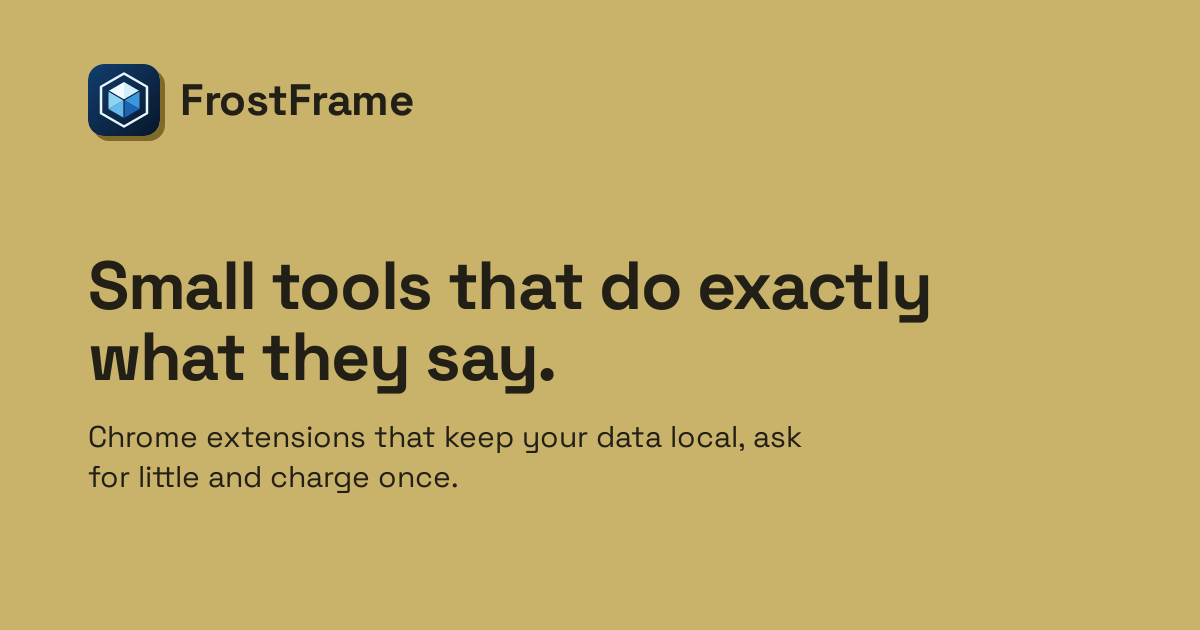
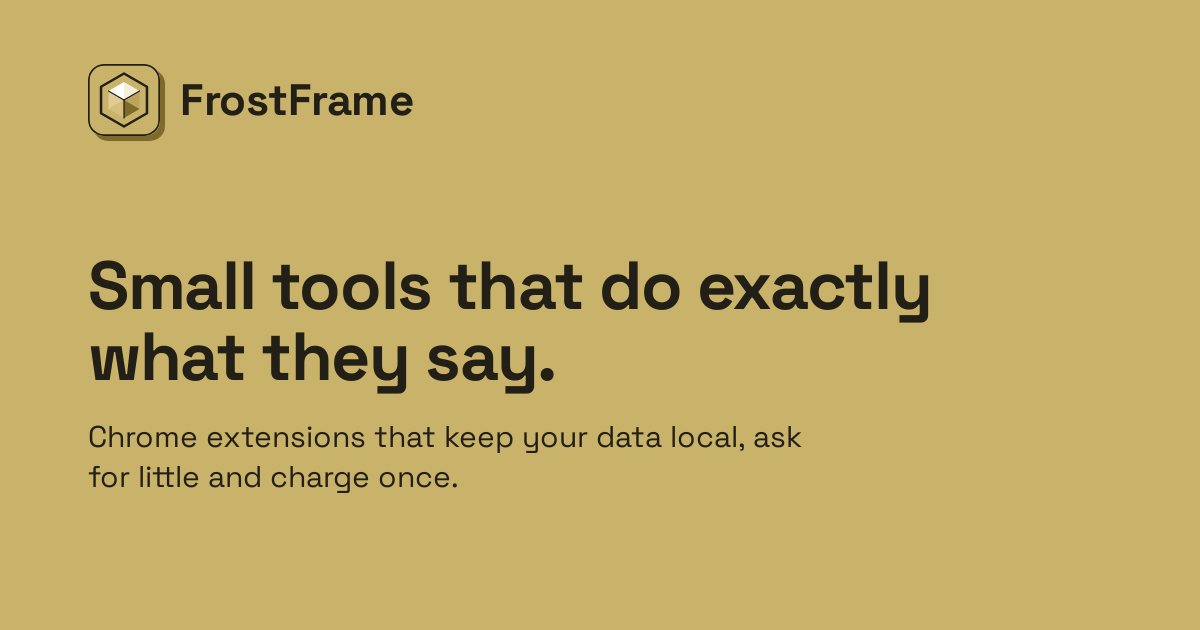
Zeichen in Gold: gleiche Form, Farben der Familie
Claude-Session: https://claude.ai/code/session_01BatjDtbuoVce3uDHUNqtjW

Changed region(s): [[0.0617, 0.0905, 0.1542, 0.2413]]

diff --git a/index.html b/index.html
@@ -15,7 +15,7 @@
   <meta property="og:image" content="https://frostframe.example/assets/og.png">
   <meta name="twitter:card" content="summary_large_image">
   <meta name="theme-color" content="#c9b26a">
-  <link rel="icon" href="assets/brand/frostframe-icon.svg" type="image/svg+xml">
+  <link rel="icon" href="assets/brand/frostframe-icon-gold.svg" type="image/svg+xml">
   <link rel="apple-touch-icon" href="assets/apple-touch-icon.png">
   <link rel="preload" href="assets/SpaceGrotesk.woff2" as="font" type="font/woff2" crossorigin>
   <link rel="stylesheet" href="assets/site.css">
@@ -24,7 +24,7 @@
 <a class="skip" href="#main">Skip to content</a>
 <header class="site-header">
   <div class="wrap">
-    <a class="brand" href="index.html"><img src="assets/brand/frostframe-icon.svg" alt="" width="30" height="30">FrostFrame</a>
+    <a class="brand" href="index.html"><img src="assets/brand/frostframe-icon-gold.svg" alt="" width="30" height="30">FrostFrame</a>
     <nav class="site-nav" aria-label="Main">
       <a href="index.html#extensions" class="keep">Extensions</a>
       <a href="index.html#pricing">Pricing</a>
@@ -203,7 +203,7 @@
 <footer class="site-footer">
   <div class="wrap">
     <div>
-      <a class="brand" href="index.html"><img src="assets/brand/frostframe-icon.svg" alt="" width="30" height="30">FrostFrame</a>
+      <a class="brand" href="index.html"><img src="assets/brand/frostframe-icon-gold.svg" alt="" width="30" height="30">FrostFrame</a>
       <p>Small, honest browser tools. Your data stays on your device.</p>
     </div>
     <nav aria-label="Extensions">

diff --git a/404.html b/404.html
@@ -15,7 +15,7 @@
   <meta property="og:image" content="https://frostframe.example/assets/og.png">
   <meta name="twitter:card" content="summary_large_image">
   <meta name="theme-color" content="#c9b26a">
-  <link rel="icon" href="assets/brand/frostframe-icon.svg" type="image/svg+xml">
+  <link rel="icon" href="assets/brand/frostframe-icon-gold.svg" type="image/svg+xml">
   <link rel="apple-touch-icon" href="assets/apple-touch-icon.png">
   <link rel="preload" href="assets/SpaceGrotesk.woff2" as="font" type="font/woff2" crossorigin>
   <link rel="stylesheet" href="assets/site.css">
@@ -24,7 +24,7 @@
 <a class="skip" href="#main">Skip to content</a>
 <header class="site-header">
   <div class="wrap">
-    <a class="brand" href="index.html"><img src="assets/brand/frostframe-icon.svg" alt="" width="30" height="30">FrostFrame</a>
+    <a class="brand" href="index.html"><img src="assets/brand/frostframe-icon-gold.svg" alt="" width="30" height="30">FrostFrame</a>
     <nav class="site-nav" aria-label="Main">
       <a href="index.html#extensions" class="keep">Extensions</a>
       <a href="index.html#pricing">Pricing</a>
@@ -44,7 +44,7 @@
 <footer class="site-footer">
   <div class="wrap">
     <div>
-      <a class="brand" href="index.html"><img src="assets/brand/frostframe-icon.svg" alt="" width="30" height="30">FrostFrame</a>
+      <a class="brand" href="index.html"><img src="assets/brand/frostframe-icon-gold.svg" alt="" width="30" height="30">FrostFrame</a>
       <p>Small, honest browser tools. Your data stays on your device.</p>
     </div>
     <nav aria-label="Extensions">

diff --git a/cookie-desk.html b/cookie-desk.html
@@ -15,7 +15,7 @@
   <meta property="og:image" content="https://frostframe.example/assets/og.png">
   <meta name="twitter:card" content="summary_large_image">
   <meta name="theme-color" content="#c9b26a">
-  <link rel="icon" href="assets/brand/frostframe-icon.svg" type="image/svg+xml">
+  <link rel="icon" href="assets/brand/frostframe-icon-gold.svg" type="image/svg+xml">
   <link rel="apple-touch-icon" href="assets/apple-touch-icon.png">
   <link rel="preload" href="assets/SpaceGrotesk.woff2" as="font" type="font/woff2" crossorigin>
   <link rel="stylesheet" href="assets/site.css">
@@ -24,7 +24,7 @@
 <a class="skip" href="#main">Skip to content</a>
 <header class="site-header">
   <div class="wrap">
-    <a class="brand" href="index.html"><img src="assets/brand/frostframe-icon.svg" alt="" width="30" height="30">FrostFrame</a>
+    <a class="brand" href="index.html"><img src="assets/brand/frostframe-icon-gold.svg" alt="" width="30" height="30">FrostFrame</a>
     <nav class="site-nav" aria-label="Main">
       <a href="index.html#extensions" class="keep">Extensions</a>
       <a href="index.html#pricing">Pricing</a>
@@ -94,7 +94,7 @@
 <footer class="site-footer">
   <div class="wrap">
     <div>
-      <a class="brand" href="index.html"><img src="assets/brand/frostframe-icon.svg" alt="" width="30" height="30">FrostFrame</a>
+      <a class="brand" href="index.html"><img src="assets/brand/frostframe-icon-gold.svg" alt="" width="30" height="30">FrostFrame</a>
       <p>Small, honest browser tools. Your data stays on your device.</p>
     </div>
     <nav aria-label="Extensions">

diff --git a/exact-size.html b/exact-size.html
@@ -15,7 +15,7 @@
   <meta property="og:image" content="https://frostframe.example/assets/og.png">
   <meta name="twitter:card" content="summary_large_image">
   <meta name="theme-color" content="#c9b26a">
-  <link rel="icon" href="assets/brand/frostframe-icon.svg" type="image/svg+xml">
+  <link rel="icon" href="assets/brand/frostframe-icon-gold.svg" type="image/svg+xml">
   <link rel="apple-touch-icon" href="assets/apple-touch-icon.png">
   <link rel="preload" href="assets/SpaceGrotesk.woff2" as="font" type="font/woff2" crossorigin>
   <link rel="stylesheet" href="assets/site.css">
@@ -24,7 +24,7 @@
 <a class="skip" href="#main">Skip to content</a>
 <header class="site-header">
   <div class="wrap">
-    <a class="brand" href="index.html"><img src="assets/brand/frostframe-icon.svg" alt="" width="30" height="30">FrostFrame</a>
+    <a class="brand" href="index.html"><img src="assets/brand/frostframe-icon-gold.svg" alt="" width="30" height="30">FrostFrame</a>
     <nav class="site-nav" aria-label="Main">
       <a href="index.html#extensions" class="keep">Extensions</a>
       <a href="index.html#pricing">Pricing</a>
@@ -91,7 +91,7 @@
 <footer class="site-footer">
   <div class="wrap">
     <div>
-      <a class="brand" href="index.html"><img src="assets/brand/frostframe-icon.svg" alt="" width="30" height="30">FrostFrame</a>
+      <a class="brand" href="index.html"><img src="assets/brand/frostframe-icon-gold.svg" alt="" width="30" height="30">FrostFrame</a>
       <p>Small, honest browser tools. Your data stays on your device.</p>
     </div>
     <nav aria-label="Extensions">

diff --git a/privacy.html b/privacy.html
@@ -15,7 +15,7 @@
   <meta property="og:image" content="https://frostframe.example/assets/og.png">
   <meta name="twitter:card" content="summary_large_image">
   <meta name="theme-color" content="#c9b26a">
-  <link rel="icon" href="assets/brand/frostframe-icon.svg" type="image/svg+xml">
+  <link rel="icon" href="assets/brand/frostframe-icon-gold.svg" type="image/svg+xml">
   <link rel="apple-touch-icon" href="assets/apple-touch-icon.png">
   <link rel="preload" href="assets/SpaceGrotesk.woff2" as="font" type="font/woff2" crossorigin>
   <link rel="stylesheet" href="assets/site.css">
@@ -24,7 +24,7 @@
 <a class="skip" href="#main">Skip to content</a>
 <header class="site-header">
   <div class="wrap">
-    <a class="brand" href="index.html"><img src="assets/brand/frostframe-icon.svg" alt="" width="30" height="30">FrostFrame</a>
+    <a class="brand" href="index.html"><img src="assets/brand/frostframe-icon-gold.svg" alt="" width="30" height="30">FrostFrame</a>
     <nav class="site-nav" aria-label="Main">
       <a href="index.html#extensions" class="keep">Extensions</a>
       <a href="index.html#pricing">Pricing</a>
@@ -85,7 +85,7 @@
 <footer class="site-footer">
   <div class="wrap">
     <div>
-      <a class="brand" href="index.html"><img src="assets/brand/frostframe-icon.svg" alt="" width="30" height="30">FrostFrame</a>
+      <a class="brand" href="index.html"><img src="assets/brand/frostframe-icon-gold.svg" alt="" width="30" height="30">FrostFrame</a>
       <p>Small, honest browser tools. Your data stays on your device.</p>
     </div>
     <nav aria-label="Extensions">

diff --git a/sure-fill.html b/sure-fill.html
@@ -15,7 +15,7 @@
   <meta property="og:image" content="https://frostframe.example/assets/og.png">
   <meta name="twitter:card" content="summary_large_image">
   <meta name="theme-color" content="#c9b26a">
-  <link rel="icon" href="assets/brand/frostframe-icon.svg" type="image/svg+xml">
+  <link rel="icon" href="assets/brand/frostframe-icon-gold.svg" type="image/svg+xml">
   <link rel="apple-touch-icon" href="assets/apple-touch-icon.png">
   <link rel="preload" href="assets/SpaceGrotesk.woff2" as="font" type="font/woff2" crossorigin>
   <link rel="stylesheet" href="assets/site.css">
@@ -24,7 +24,7 @@
 <a class="skip" href="#main">Skip to content</a>
 <header class="site-header">
   <div class="wrap">
-    <a class="brand" href="index.html"><img src="assets/brand/frostframe-icon.svg" alt="" width="30" height="30">FrostFrame</a>
+    <a class="brand" href="index.html"><img src="assets/brand/frostframe-icon-gold.svg" alt="" width="30" height="30">FrostFrame</a>
     <nav class="site-nav" aria-label="Main">
       <a href="index.html#extensions" class="keep">Extensions</a>
       <a href="index.html#pricing">Pricing</a>
@@ -91,7 +91,7 @@
 <footer class="site-footer">
   <div class="wrap">
     <div>
-      <a class="brand" href="index.html"><img src="assets/brand/frostframe-icon.svg" alt="" width="30" height="30">FrostFrame</a>
+      <a class="brand" href="index.html"><img src="assets/brand/frostframe-icon-gold.svg" alt="" width="30" height="30">FrostFrame</a>
       <p>Small, honest browser tools. Your data stays on your device.</p>
     </div>
     <nav aria-label="Extensions">
